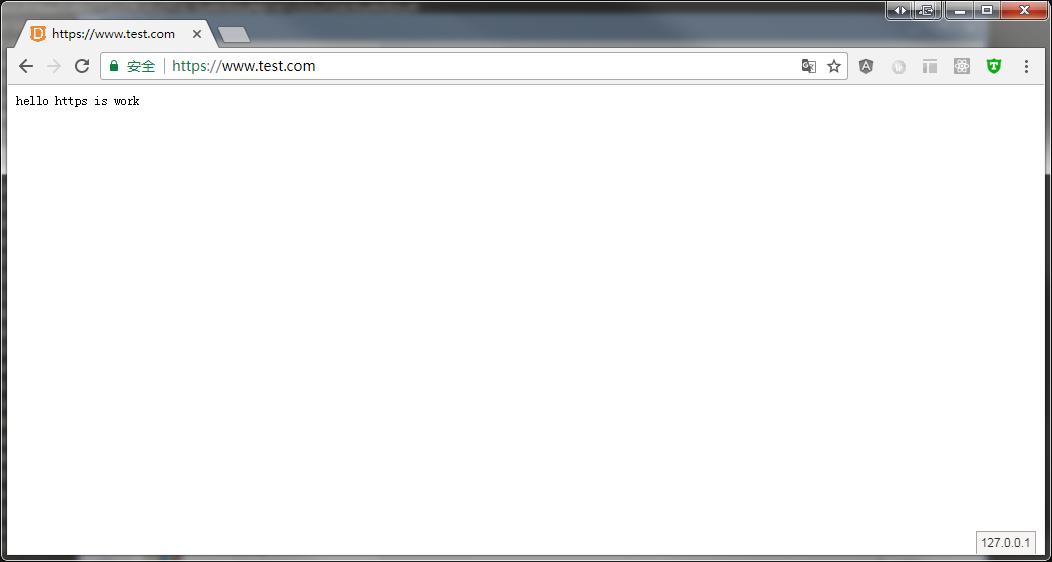
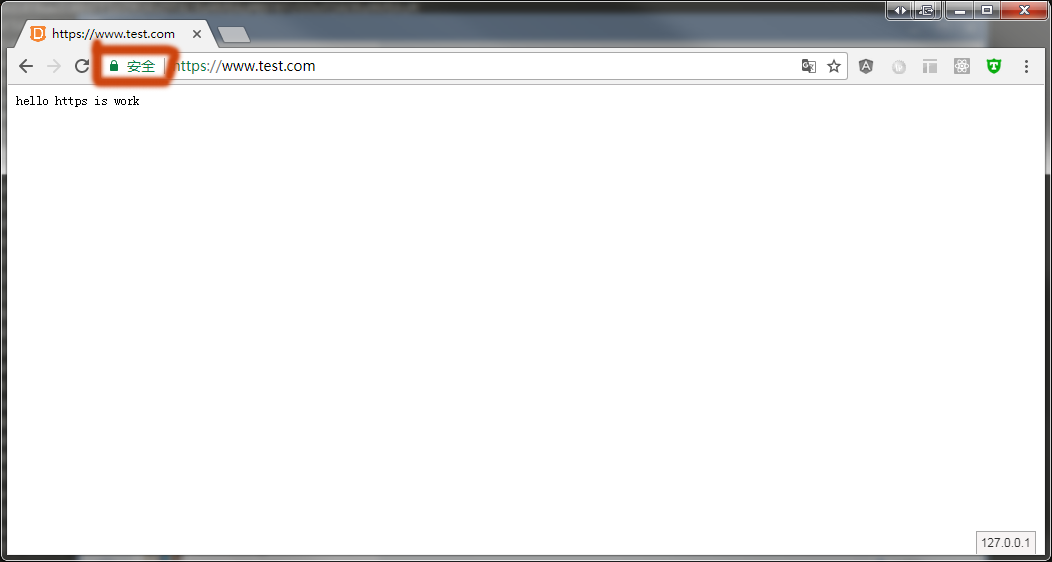
优化一下https

Changed region(s): [[0.0608, 0.0605, 0.1825, 0.1815]]

diff --git a/source/_posts/2017-07-17-https-certificate.md b/source/_posts/2017-07-17-https-certificate.md
@@ -22,7 +22,7 @@ HTTPS服务是工作在SSL/TLS上的HTTP。
 
 ![https-demo](/images/2017-07-17-https-certificate/demo.png)
 
-达到这个目标需要什么：
+可以看到浏览器上面展示的url前面会加一把绿色的锁，表示这个是安全的HTTPS url。要达到这个目标需要什么：
 
 1. HTTPS服务器：server私钥 + CA签发的证书  
 2. client客户端：CA证书
